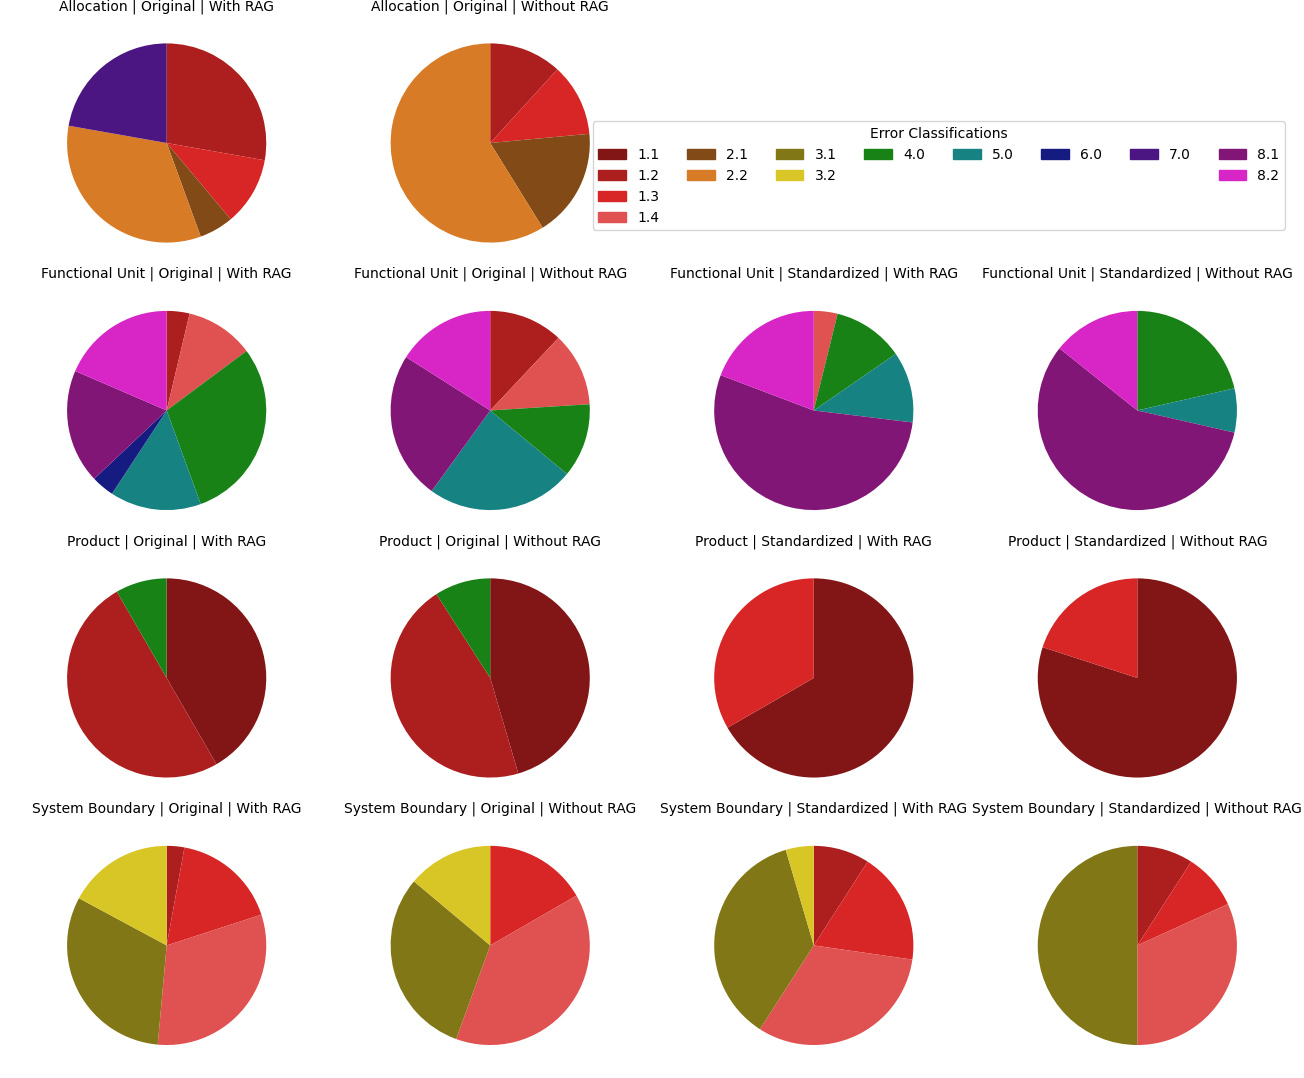
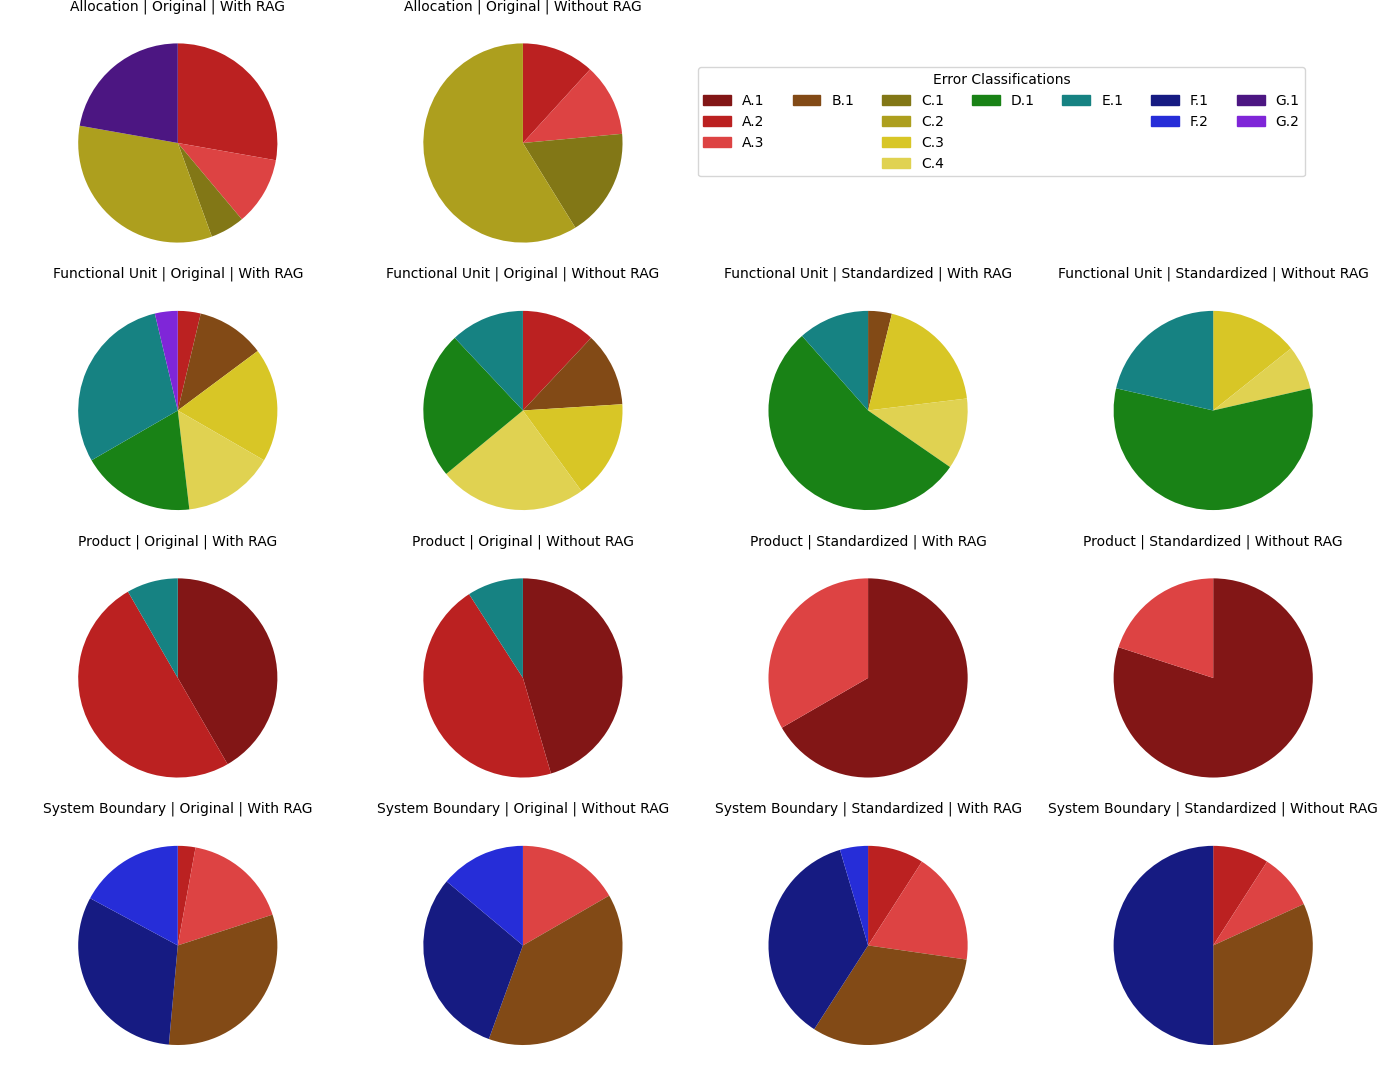
update error plot

diff --git a/data_analysis.py b/data_analysis.py
@@ -32,27 +32,27 @@ def main():
 
 def plot_error_codes():
     df = pd.read_excel("./data/qa_dataset/results/All_Discrepancies_Coded.xlsx")
-    df["Code"] = df['Code'].astype('category')
+    df["Rationale"] = df['Rationale'].astype('category')
     group_cols = ["Dataset", "Dataset Type", "RAG"]
-    df_counts = df.groupby(group_cols + ["Code"]).size().reset_index(name='Count')
+    df_counts = df.groupby(group_cols + ["Rationale"]).size().reset_index(name='Count')
 
     # Create a consistent color map for all Codes
-    unique_codes = df['Code'].cat.categories.tolist()
+    unique_codes = df['Rationale'].cat.categories.tolist()
     base_hues = {
-        1: 0.0,  # Red
-        2: 0.08,  # Orange
-        3: 0.15,  # Yellow-Gold
-        4: 0.33,  # Green
-        5: 0.5,  # Cyan
-        6: 0.66,  # Blue
-        7: 0.75,  # Purple
-        8: 0.85  # Magenta/Pink
+        "A": 0.0,  # Red
+        "B": 0.08,  # Orange
+        "C": 0.15,  # Yellow-Gold
+        "D": 0.33,  # Green
+        "E": 0.5,  # Cyan
+        "F": 0.66,  # Blue
+        "G": 0.75,  # Purple
+        "H": 0.85  # Magenta/Pink
     }
     color_map = {}
     for code in sorted(unique_codes):
-        major = int(code)
+        major = str(code).split(".")[0]
         # Get all sub-codes for this major group to determine shade depth
-        subs = [c for c in unique_codes if int(c) == major]
+        subs = [c for c in unique_codes if str(c).split(".")[0] == major]
         rank = subs.index(code)
 
         # Calculate Lightness: starts dark and gets lighter
@@ -75,10 +75,10 @@ def plot_error_codes():
 
     for i, (name, group) in enumerate(groups):
         ax = axes[i]
-        group = group[group['Count'] > 0].sort_values('Code')
+        group = group[group['Count'] > 0].sort_values('Rationale')
 
         if not group.empty:
-            colors = [color_map[str(c)] for c in group['Code']]
+            colors = [color_map[str(c)] for c in group['Rationale']]
             wedges, texts = ax.pie(
                 group['Count'],
                 colors=colors,
@@ -91,8 +91,8 @@ def plot_error_codes():
 
     major_groups = defaultdict(list)
     # sort unique_codes to ensure the legend order is logical
-    for code in sorted(unique_codes, key=float):
-        major = int(float(code))
+    for code in sorted(unique_codes):
+        major = str(code).split(".")[0]
         major_groups[major].append(code)
 
     # Create the legend handles in "column order"
@@ -121,7 +121,7 @@ def plot_error_codes():
         loc='lower center',
         ncol=len(sorted_majors),
         title="Error Classifications",
-        bbox_to_anchor=(0.72, 0.78),
+        bbox_to_anchor=(0.72, 0.83),
         frameon=True
     )
     plt.tight_layout()